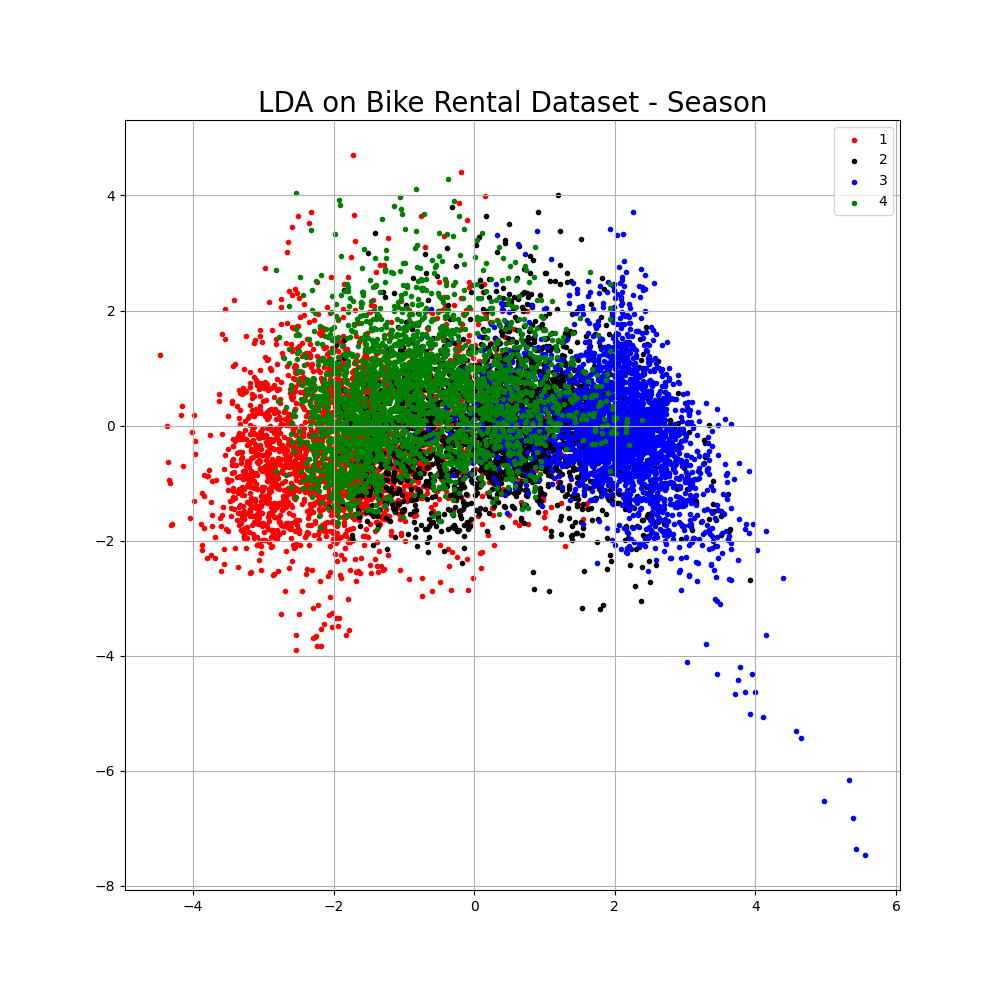
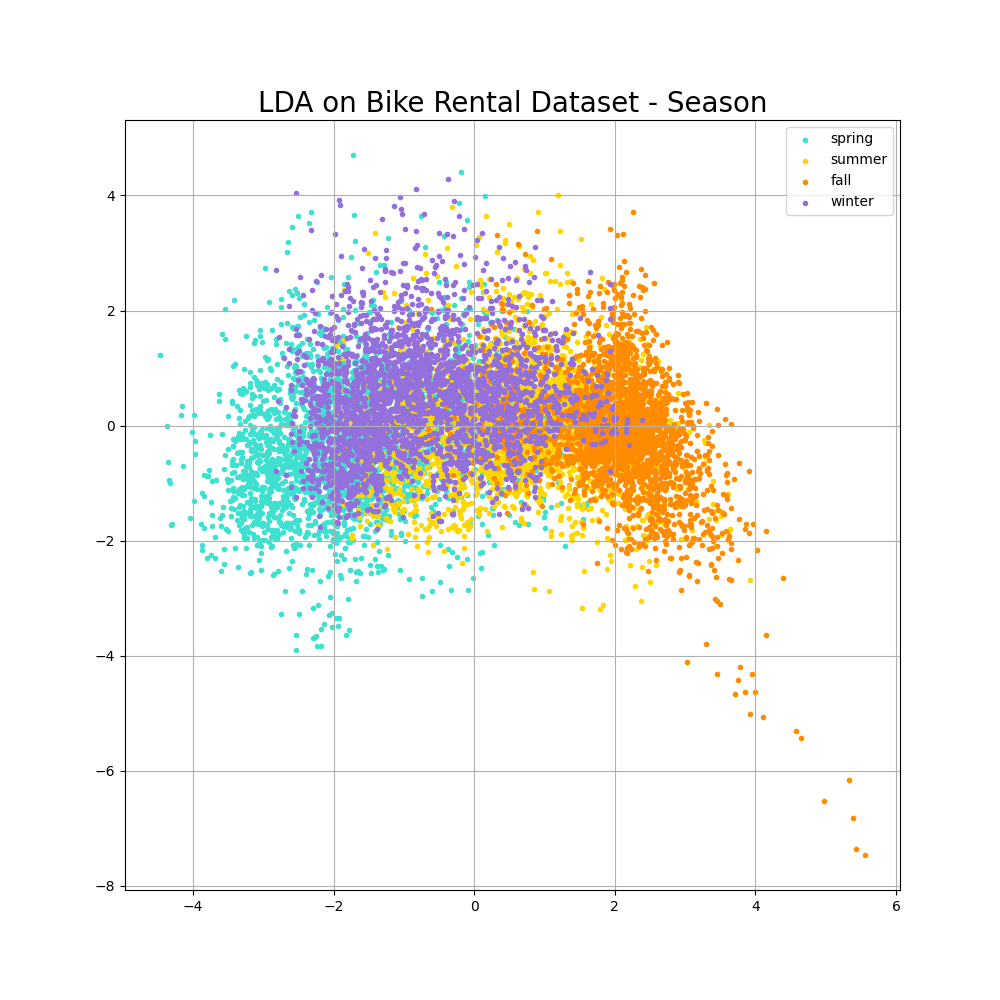
Added function for part 4

Changed region(s): [[0.186, 0.186, 0.775, 0.651], [0.806, 0.124, 0.899, 0.217], [0.713, 0.651, 0.744, 0.682]]

diff --git a/main.py b/main.py
@@ -6,6 +6,82 @@ from sklearn.decomposition import PCA
 from sklearn.discriminant_analysis import LinearDiscriminantAnalysis
 from sklearn.preprocessing import MinMaxScaler
 
+def plot_learning_curve(est_arr, X, y, ylim=None, cv=None, n_jobs=1, train_sizes=np.linspace(.1, 1.0, 5), title=" "):
+    """
+    **Found on sklearn website and modified**
+    https://scikit-learn.org/0.15/auto_examples/plot_learning_curve.html
+
+    Generate a simple plot of the test and traning learning curve.
+
+    Parameters
+    ----------
+    estimator : object type that implements the "fit" and "predict" methods
+        An object of that type which is cloned for each validation.
+
+    title : string
+        Title for the chart.
+
+    X : array-like, shape (n_samples, n_features)
+        Training vector, where n_samples is the number of samples and
+        n_features is the number of features.
+
+    y : array-like, shape (n_samples) or (n_samples, n_features), optional
+        Target relative to X for classification or regression;
+        None for unsupervised learning.
+
+    ylim : tuple, shape (ymin, ymax), optional
+        Defines minimum and maximum yvalues plotted.
+
+    cv : integer, cross-validation generator, optional
+        If an integer is passed, it is the number of folds (defaults to 3).
+        Specific cross-validation objects can be passed, see
+        sklearn.cross_validation module for the list of possible objects
+
+    n_jobs : integer, optional
+        Number of jobs to run in parallel (default 1).
+    """
+    test = []
+    train = []
+    colors = []
+
+    # Loop through each estimator and apply the learning curve function on them
+    for c in est_arr:
+        estimator = est_arr[c][0]
+        color = est_arr[c][1]
+        train_sizes, train_scores, test_scores = learning_curve(estimator, X, y, cv=cv, n_jobs=n_jobs,
+                                                                train_sizes=train_sizes, shuffle=True, verbose=1)
+        train_scores_mean = np.mean(train_scores, axis=1)
+        test_scores_mean = np.mean(test_scores, axis=1)
+        test.append(test_scores_mean * 100)
+        train.append(train_scores_mean * 100)
+        colors.append(color)
+
+    # Plot the learning curve scores for each estimator as a line graph
+    fig, (s_test, s_train) = plt.subplots(1, 2)
+    fig.set(figheight=6, figwidth=10)
+    s_test.set_box_aspect(1)
+    s_test.set_title("Model Evaluation - Cross Validation Accuracy")
+    s_test.set_ylabel("Overall Classification Accuracy")
+    s_test.set_xlabel("% of Training Examples")
+    s_train.set_box_aspect(1)
+    s_train.set_title("Model Evaluation - Training Accuracy")
+    s_train.set_ylabel("Training Recall Accuracy")
+    s_train.set_xlabel("% of Training Examples")
+
+    for color, i, label in zip(colors, [0, 1, 2], est_arr):
+        s_test.plot(
+            [10, 20, 30, 40, 50], test[i], color=color, label=label, marker='o'
+        )
+
+        s_train.plot(
+            [10, 20, 30, 40, 50], train[i], color=color, label=label, marker='o'
+        )
+
+    s_train.legend(loc="best")
+    s_test.legend(loc="best")
+    fig.suptitle(title, y=0.92)
+    return plt, train_scores
+
 # To stop output from being truncated
 pd.set_option('display.max_rows', 500)
 pd.set_option('display.max_columns', 500)
@@ -90,7 +166,6 @@ outliers = df_final.index[((df_final['count'] < q1-(1.5 * iqr)) | (df_final['cou
 target = target.drop(index=outliers, axis=0)
 df_final = df_final.drop(index=outliers, axis=0)
 
-'''
 # Assigning X and Y for PCA
 x_pca = df_final
 y_pca = target['season']
@@ -102,7 +177,7 @@ ev = pca.explained_variance_ratio_
 
 # Explained Variance Plot - PCA
 plt.figure(figsize=(8, 6))
-plt.bar([1, 2, 3, 4, 5, 6, 7, 8], list(ev * 100), label='Principal Components', color='c')
+plt.bar([1, 2, 3, 4, 5, 6, 7, 8, 9, 10, 11, 12], list(ev * 100), label='Principal Components', color='c')
 plt.legend()
 plt.xlabel('Principal Components')
 pc = []
@@ -113,17 +188,18 @@ plt.ylabel('Variance Ratio')
 plt.title('PCA Variance Ratio of Bike Rental Dataset')
 plt.savefig('PCA_class_variance')
 # plt.show()
-
+'''
 # PCA Dimensionality Reduction
 pca = PCA()
 pc = pca.fit_transform(x_pca)
 x1 = x_pca.transpose()
 X_pca = np.matmul(pc, x1)
+'''
 
 # Reformat reduced data
-X_pca_df = pd.DataFrame(data=X_pca)
+X_pca_df = pd.DataFrame(data=pc)
 target_df = pd.DataFrame(data=target['season'])
-#X_pca_df.columns = ['PC-1', 'PC-2', 'PC-3', 'PC-4', 'PC-5', 'PC-6', 'PC-7', 'PC-8']
+X_pca_df.columns = ['PC-1', 'PC-2', 'PC-3', 'PC-4', 'PC-5', 'PC-6', 'PC-7', 'PC-8']
 
 # 2D PCA Reduction Plot
 fig = plt.figure(figsize=(10, 10))
@@ -141,10 +217,10 @@ for target, color in zip(class_num, colors):
 ax.legend(class_num)
 ax.grid()
 plt.show()
-'''
 
-sns.lineplot(data=df_final, x='hour', y='count', hue='workingday')
-plt.show()
+# Count over a day for working days vs not
+#sns.lineplot(data=df_final, x='hour', y='count', hue='workingday')
+#plt.show()
 
 # Assigning X and Y for LDA
 x_lda = df_final
@@ -178,39 +254,14 @@ fig = plt.figure(figsize=(10, 10))
 ax = fig.add_subplot(1, 1, 1)
 ax.set_title('LDA on Bike Rental Dataset - Season', fontsize=20)
 class_num = [1, 2, 3, 4]
-colors = ['r', 'k', 'b', 'g']
+colors = ['turquoise', 'gold', 'darkorange', 'mediumpurple']
 #markerm = ['o', 'o', 'o', 'o', 'o', 'o', 'o', '+', '+', '+', '+', '+', '+', '+', '*', '*']
 for t, color in zip(class_num, colors):
     indicesToKeep = y_lda == t
     ax.scatter(x_lda[indicesToKeep, 0],
                x_lda[indicesToKeep, 1],
                c=color, s=9)
-ax.legend(class_num)
+ax.legend(['Spring', 'Summer', 'Fall', 'Winter'])
 ax.grid()
 plt.savefig('LDA_scatterplot_season')
-# plt.show()
-
-# LDA Dimensionality Reduction - weather
-x_lda = df_final
-y_lda = target['weather']
-lda = LinearDiscriminantAnalysis(n_components=2)
-x_lda = lda.fit_transform(X=x_lda, y=y_lda)
-
-# Plot LDA scatterplot
-fig = plt.figure(figsize=(10, 10))
-ax = fig.add_subplot(1, 1, 1)
-ax.set_title('LDA on Bike Rental Dataset - Weather', fontsize=20)
-class_num = [1, 2, 3, 4]
-colors = ['r', 'k', 'b', 'g']
-#markerm = ['o', 'o', 'o', 'o', 'o', 'o', 'o', '+', '+', '+', '+', '+', '+', '+', '*', '*']
-for t, color in zip(class_num, colors):
-    indicesToKeep = y_lda == t
-    ax.scatter(x_lda[indicesToKeep, 0],
-               x_lda[indicesToKeep, 1],
-               c=color, s=9)
-ax.legend(class_num)
-ax.grid()
-plt.savefig('LDA_scatterplot_weather')
 plt.show()
-
-
